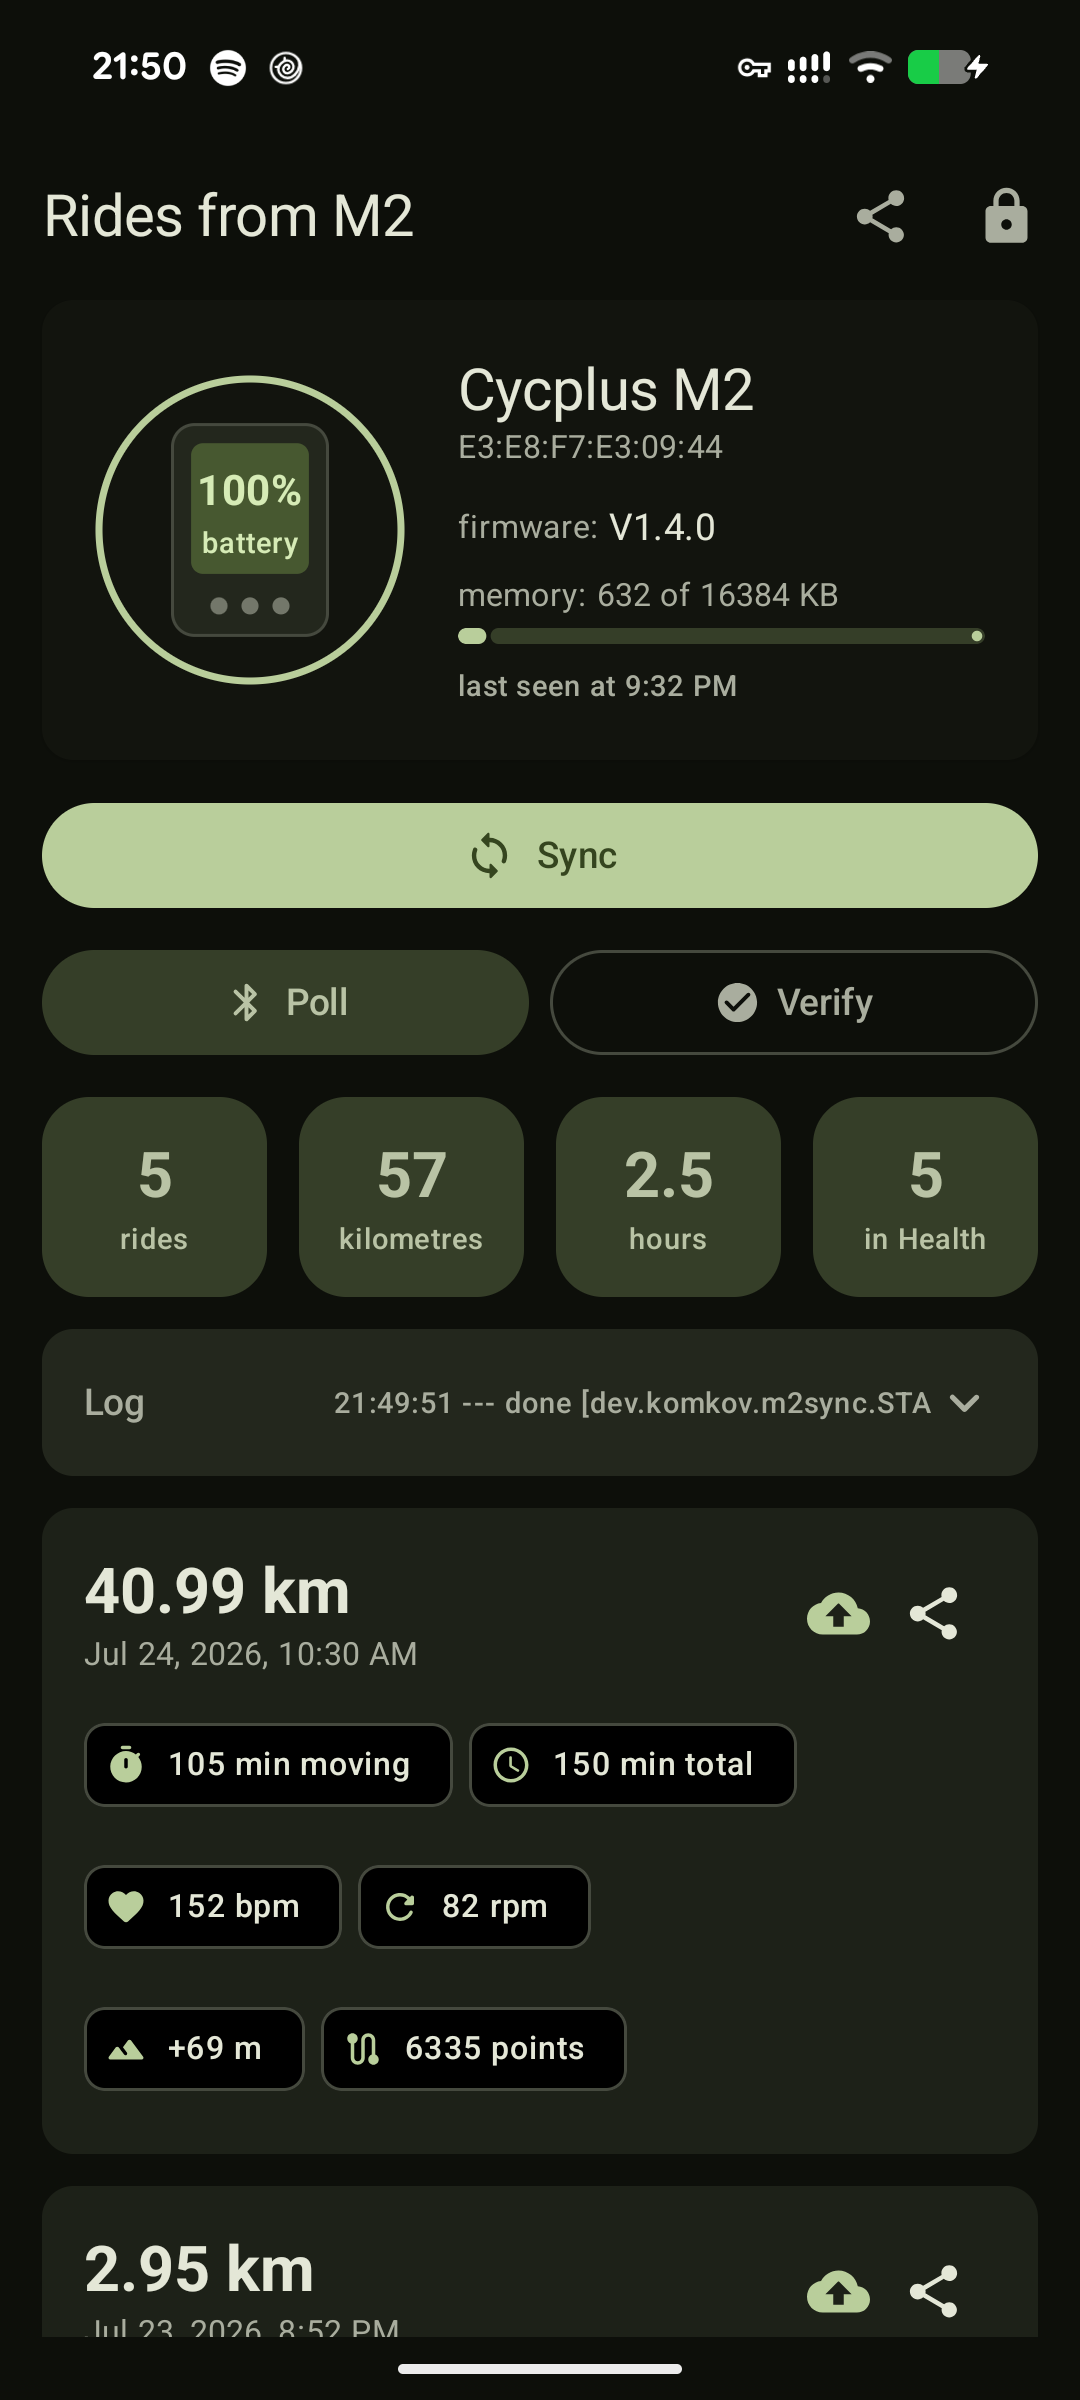
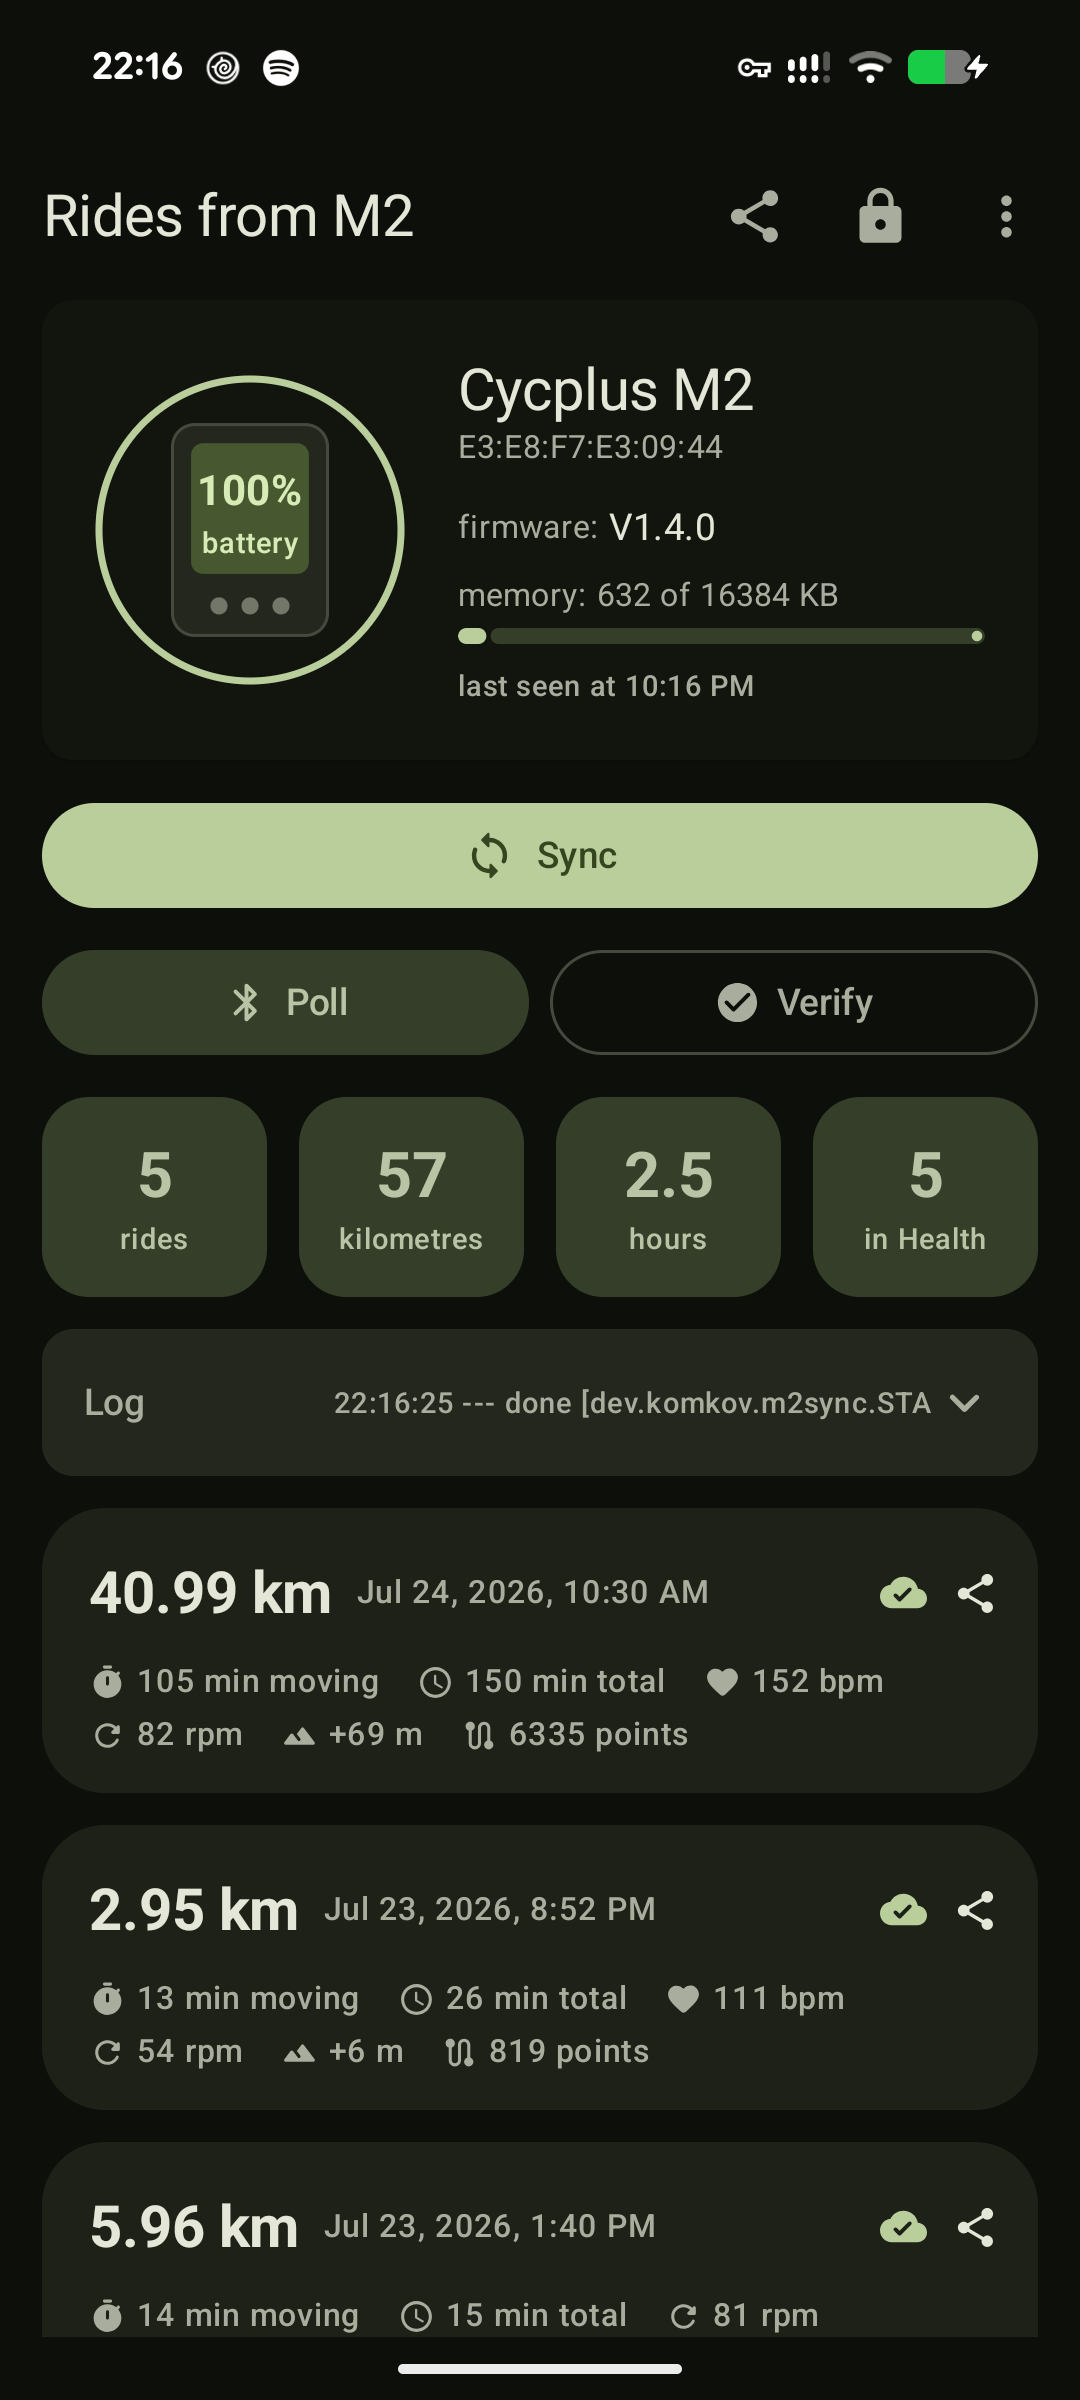
feat(ui): compact ride cards and a screenshot gallery
Metrics moved from chip rows to a single wrapping line, so three rides fit
where one and a half did before.

diff --git a/android/app/src/main/java/dev/komkov/m2sync/Ui.kt b/android/app/src/main/java/dev/komkov/m2sync/Ui.kt
@@ -9,6 +9,8 @@ import androidx.compose.foundation.combinedClickable
 import androidx.compose.foundation.layout.Arrangement
 import androidx.compose.foundation.layout.Box
 import androidx.compose.foundation.layout.Column
+import androidx.compose.foundation.layout.ExperimentalLayoutApi
+import androidx.compose.foundation.layout.FlowRow
 import androidx.compose.foundation.layout.Row
 import androidx.compose.foundation.layout.Spacer
 import androidx.compose.foundation.layout.fillMaxWidth
@@ -24,6 +26,7 @@ import androidx.compose.foundation.verticalScroll
 import androidx.compose.material.icons.Icons
 import androidx.compose.material.icons.rounded.Bluetooth
 import androidx.compose.material.icons.rounded.CheckCircle
+import androidx.compose.material.icons.rounded.CloudDone
 import androidx.compose.material.icons.rounded.CloudUpload
 import androidx.compose.material.icons.rounded.Download
 import androidx.compose.material.icons.rounded.ExpandLess
@@ -37,8 +40,6 @@ import androidx.compose.material.icons.rounded.Share
 import androidx.compose.material.icons.rounded.Sync
 import androidx.compose.material.icons.rounded.Terrain
 import androidx.compose.material.icons.rounded.Timer
-import androidx.compose.material3.AssistChip
-import androidx.compose.material3.AssistChipDefaults
 import androidx.compose.material3.Button
 import androidx.compose.material3.Card
 import androidx.compose.material3.CardDefaults
@@ -342,7 +343,7 @@ fun ActionsRow(
     }
 }
 
-@OptIn(ExperimentalFoundationApi::class)
+@OptIn(ExperimentalFoundationApi::class, ExperimentalLayoutApi::class)
 @Composable
 fun RideCard(
     ride: RideSummary,
@@ -358,82 +359,90 @@ fun RideCard(
         modifier
             .fillMaxWidth()
             .combinedClickable(onClick = onClick, onLongClick = onLongClick),
+        shape = RoundedCornerShape(24.dp),
         colors = CardDefaults.cardColors(
             containerColor = if (selected) MaterialTheme.colorScheme.primaryContainer
             else MaterialTheme.colorScheme.surfaceContainerHigh
         ),
     ) {
-        Column(Modifier.padding(16.dp)) {
+        Column(Modifier.padding(start = 18.dp, end = 6.dp, top = 14.dp, bottom = 14.dp)) {
             Row(verticalAlignment = Alignment.CenterVertically) {
                 if (selectionMode) {
                     Icon(
                         if (selected) Icons.Rounded.CheckCircle else Icons.Rounded.RadioButtonUnchecked,
                         null,
+                        Modifier.size(20.dp),
                         tint = MaterialTheme.colorScheme.primary,
                     )
-                    Spacer(Modifier.width(12.dp))
+                    Spacer(Modifier.width(10.dp))
                 }
-                Column(Modifier.weight(1f)) {
-                    Text(
-                        stringResource(
-                            R.string.ride_distance,
-                            String.format(locale, "%.2f", ride.distanceM / 1000),
-                        ),
-                        style = MaterialTheme.typography.headlineSmall,
-                        fontWeight = FontWeight.Bold,
-                    )
-                    Text(
-                        dayFormat().format(ride.start.atZone(ZoneId.systemDefault())),
-                        style = MaterialTheme.typography.bodySmall,
-                        color = MaterialTheme.colorScheme.onSurfaceVariant,
-                    )
-                }
+                Text(
+                    stringResource(
+                        R.string.ride_distance,
+                        String.format(locale, "%.2f", ride.distanceM / 1000),
+                    ),
+                    style = MaterialTheme.typography.titleLarge,
+                    fontWeight = FontWeight.Bold,
+                )
+                Spacer(Modifier.width(10.dp))
+                Text(
+                    dayFormat().format(ride.start.atZone(ZoneId.systemDefault())),
+                    style = MaterialTheme.typography.labelMedium,
+                    color = MaterialTheme.colorScheme.onSurfaceVariant,
+                    modifier = Modifier.weight(1f),
+                )
                 if (ride.imported) {
                     Icon(
-                        Icons.Rounded.CloudUpload,
+                        Icons.Rounded.CloudDone,
                         stringResource(R.string.cd_in_health),
+                        Modifier.size(18.dp),
                         tint = MaterialTheme.colorScheme.primary,
                     )
                 }
                 if (!selectionMode) {
-                    IconButton(onClick = onShare) {
-                        Icon(Icons.Rounded.Share, stringResource(R.string.cd_share))
+                    IconButton(onClick = onShare, modifier = Modifier.size(36.dp)) {
+                        Icon(Icons.Rounded.Share, stringResource(R.string.cd_share), Modifier.size(18.dp))
                     }
                 }
             }
-            Spacer(Modifier.height(10.dp))
-            Row(horizontalArrangement = Arrangement.spacedBy(6.dp)) {
-                Chip(Icons.Rounded.Timer, stringResource(R.string.chip_moving, ride.movingMin))
-                Chip(Icons.Rounded.Schedule, stringResource(R.string.chip_total, ride.elapsedMin))
-            }
-            Spacer(Modifier.height(6.dp))
-            Row(horizontalArrangement = Arrangement.spacedBy(6.dp)) {
-                ride.avgHeartRate?.let { Chip(Icons.Rounded.Favorite, stringResource(R.string.chip_hr, it)) }
-                ride.avgCadence?.let { Chip(Icons.Rounded.Refresh, stringResource(R.string.chip_cadence, it)) }
-            }
-            Spacer(Modifier.height(6.dp))
-            Row(horizontalArrangement = Arrangement.spacedBy(6.dp)) {
+            Spacer(Modifier.height(8.dp))
+            FlowRow(
+                horizontalArrangement = Arrangement.spacedBy(14.dp),
+                verticalArrangement = Arrangement.spacedBy(4.dp),
+                modifier = Modifier.padding(end = 12.dp),
+            ) {
+                Metric(Icons.Rounded.Timer, stringResource(R.string.chip_moving, ride.movingMin))
+                Metric(Icons.Rounded.Schedule, stringResource(R.string.chip_total, ride.elapsedMin))
+                ride.avgHeartRate?.let { Metric(Icons.Rounded.Favorite, stringResource(R.string.chip_hr, it)) }
+                ride.avgCadence?.let { Metric(Icons.Rounded.Refresh, stringResource(R.string.chip_cadence, it)) }
                 ride.ascent?.takeIf { it > 0 }?.let {
-                    Chip(Icons.Rounded.Terrain, stringResource(R.string.chip_ascent, it))
+                    Metric(Icons.Rounded.Terrain, stringResource(R.string.chip_ascent, it))
                 }
                 if (ride.hasRoute) {
-                    Chip(Icons.Rounded.Route, stringResource(R.string.chip_points, ride.points))
+                    Metric(Icons.Rounded.Route, stringResource(R.string.chip_points, ride.points))
                 }
             }
         }
     }
 }
 
+/** Компактная метрика: иконка и подпись, без контейнера чипа. */
 @Composable
-private fun Chip(icon: ImageVector, label: String) {
-    AssistChip(
-        onClick = {},
-        label = { Text(label, style = MaterialTheme.typography.labelMedium) },
-        leadingIcon = { Icon(icon, null, Modifier.size(16.dp)) },
-        colors = AssistChipDefaults.assistChipColors(
-            containerColor = MaterialTheme.colorScheme.surfaceContainerLowest
-        ),
-    )
+private fun Metric(icon: ImageVector, label: String) {
+    Row(verticalAlignment = Alignment.CenterVertically) {
+        Icon(
+            icon,
+            null,
+            Modifier.size(14.dp),
+            tint = MaterialTheme.colorScheme.onSurfaceVariant,
+        )
+        Spacer(Modifier.width(4.dp))
+        Text(
+            label,
+            style = MaterialTheme.typography.labelMedium,
+            color = MaterialTheme.colorScheme.onSurfaceVariant,
+        )
+    }
 }
 
 @Composable

diff --git a/README.ru.md b/README.ru.md
@@ -6,9 +6,9 @@
 Bluetooth, кладёт их в **Health Connect** и отдаёт исходные `.fit` куда угодно — **без облака
 производителя, без аккаунта и без фирменного приложения**.
 
-| Русский интерфейс | Английский |
-| --- | --- |
-| ![Русский интерфейс](docs/screenshot-ru.png) | ![English UI](docs/screenshot-en.png) |
+| Заезды | Выбор нескольких | Настройки | Английский |
+| --- | --- | --- | --- |
+| ![Список заездов](docs/screenshot-ru.png) | ![Выбор заездов для выгрузки](docs/screenshot-select.png) | ![Меню настроек](docs/screenshot-menu.png) | ![English UI](docs/screenshot-en.png) |
 
 ## Зачем
 

diff --git a/README.md b/README.md
@@ -10,9 +10,9 @@ files anywhere you like — **without the vendor cloud, without an account, with
 
 [Читать по-русски](README.ru.md)
 
-| Light on data, honest about it | Same app, English locale |
-| --- | --- |
-| ![Russian UI](docs/screenshot-ru.png) | ![English UI](docs/screenshot-en.png) |
+| Rides | Bulk selection | Settings | Russian locale |
+| --- | --- | --- | --- |
+| ![Ride list](docs/screenshot-en.png) | ![Selecting rides to export](docs/screenshot-select.png) | ![Settings menu](docs/screenshot-menu.png) | ![Russian UI](docs/screenshot-ru.png) |
 
 ## Why this exists
 
